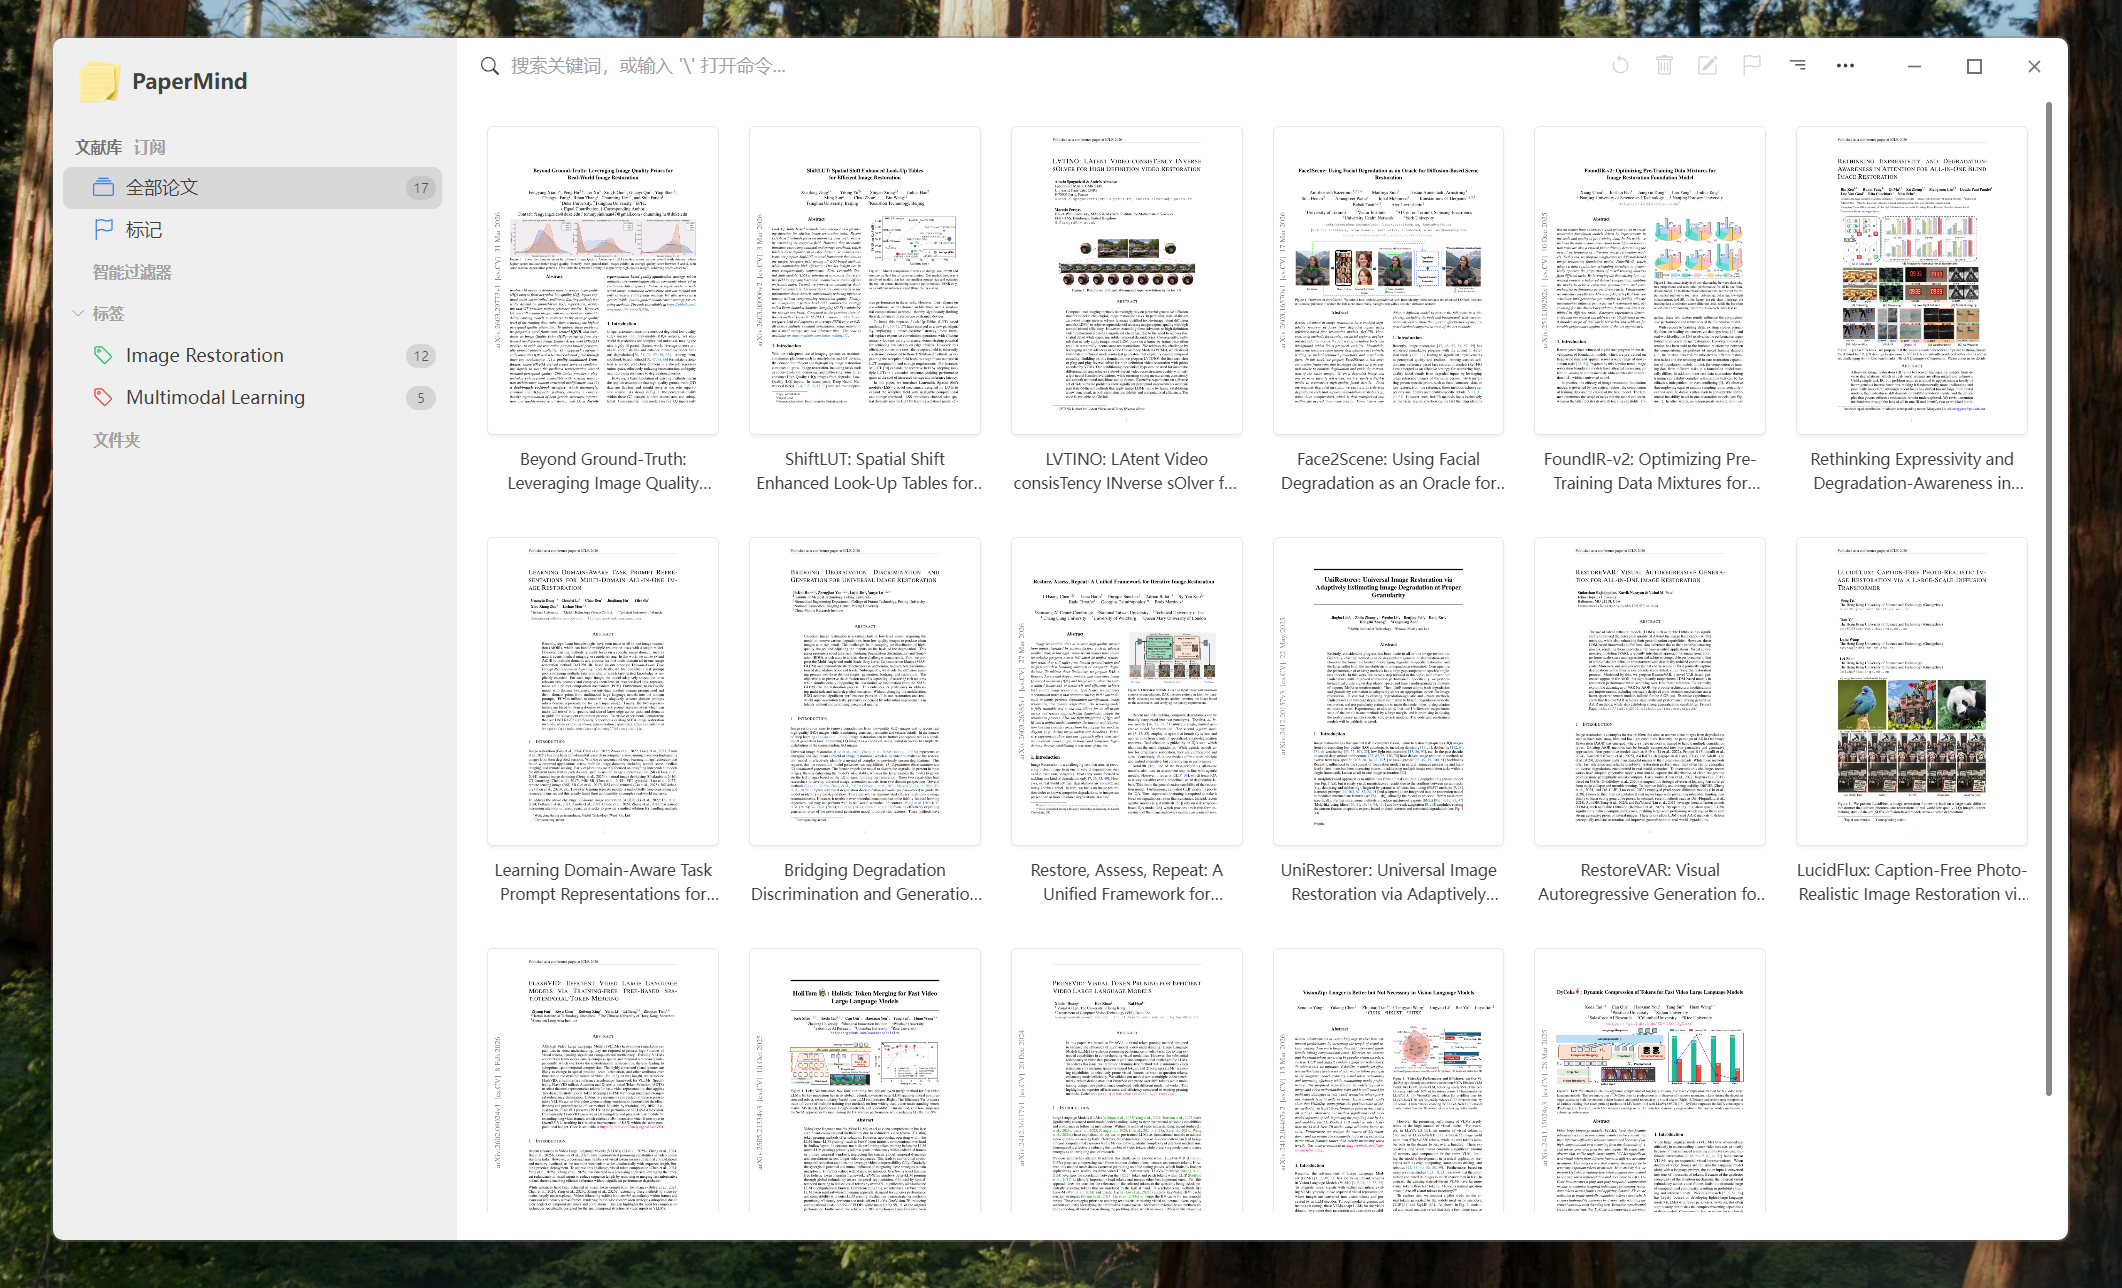
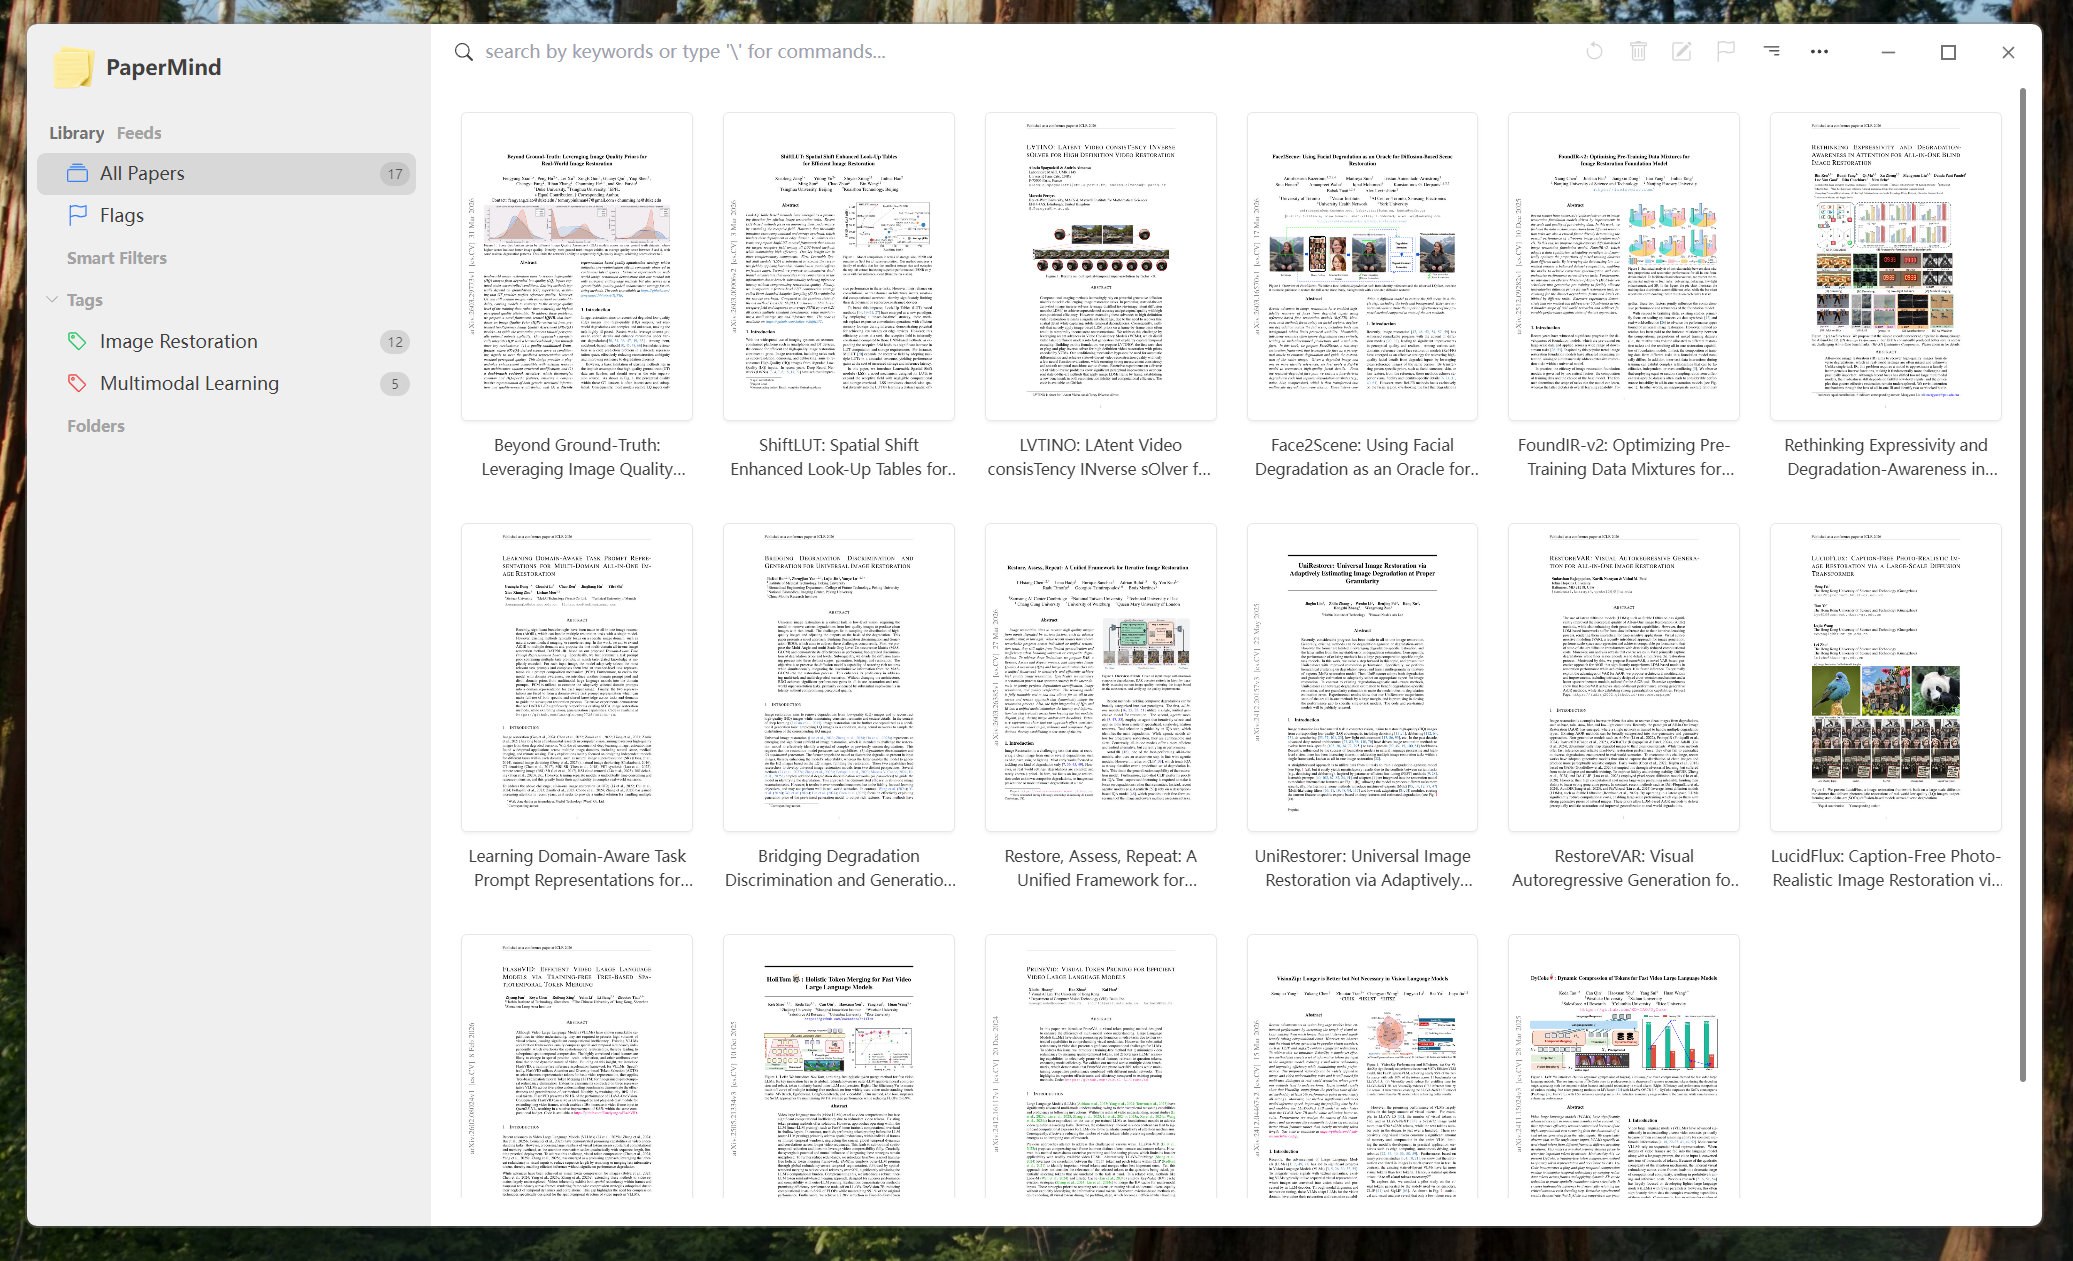
feat: 更新 README 中的图片引用格式，优化图片显示

diff --git a/README.md b/README.md
@@ -39,11 +39,11 @@ I am an undergraduate student who uses Paperlib heavily in daily research readin
 
 ## Screenshot
 
-![Ask_mode](.\assets\Ask_mode.png)
+<img src="./assets/Ask_mode.png" alt="Ask_mode" width="400">
 
-![Bookshelf](.\assets\Bookshelf.png)
+![Bookshelf](./assets/Bookshelf.png)
 
-![Papermind_ai](.\assets\Papermind_ai.png)
+![Papermind_ai](./assets/Papermind_ai.png)
 
 ## 3.7.0 Update
 